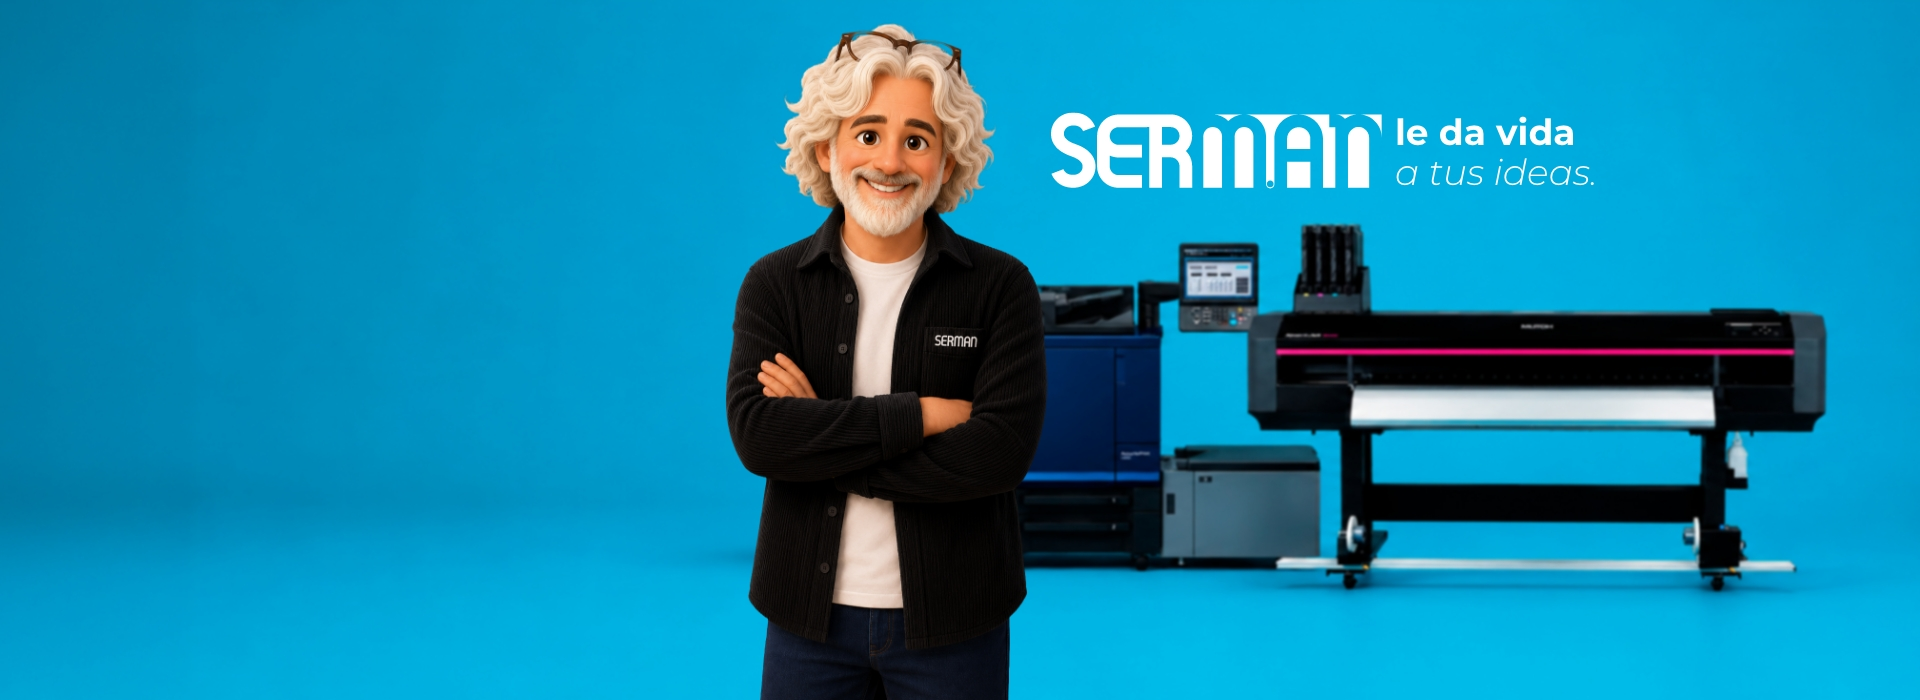
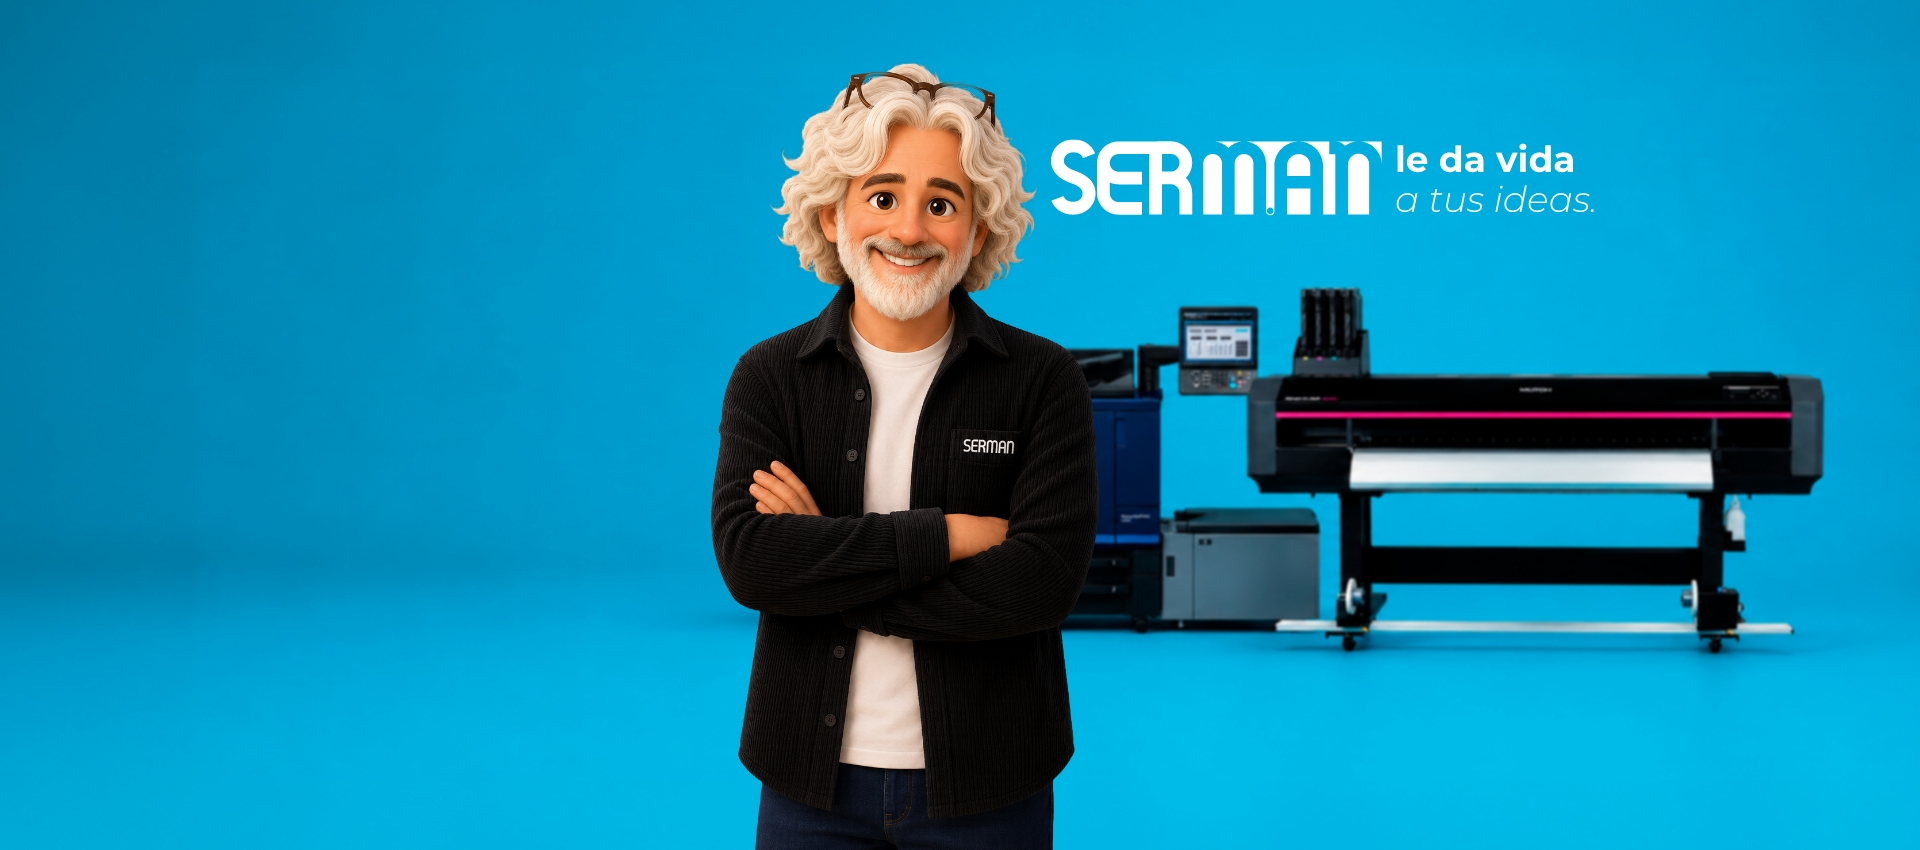
Ajusta hero completo y fade por scroll

Changed region(s): [[0.3438, 0.03, 0.9688, 1.0], [0.0, 0.72, 0.0625, 0.75]]

diff --git a/src/App.jsx b/src/App.jsx
@@ -1,4 +1,4 @@
-import { useState } from "react";
+import { useEffect, useRef, useState } from "react";
 
 import logoHeader from "./assets/logo-serman-1.svg";
 import logoFooter from "./assets/logo-serman-2.svg";
@@ -237,16 +237,16 @@ function QuoteForm() {
 function Hero() {
   return (
     <section className="relative overflow-hidden bg-[#03acd4]">
-      <picture className="absolute inset-0 block">
+      <picture className="block w-full">
         <source media="(max-width: 767px)" srcSet={heroMobile} />
         <img
           src={heroDesktop}
           alt="Serman le da vida a tus ideas"
-          className="h-full w-full object-cover object-center"
+          className="block h-auto w-full"
         />
       </picture>
 
-      <div className="relative mx-auto flex min-h-[528px] max-w-[1280px] items-end px-7 pb-8 pt-[132px] md:min-h-[374px] md:items-center md:px-8 md:py-8">
+      <div className="absolute inset-0 mx-auto flex max-w-[1280px] items-end px-7 pb-8 pt-[132px] md:items-center md:px-8 md:py-8">
         <div className="w-full max-w-[277px] md:max-w-[435px]">
           <QuoteForm />
         </div>
@@ -313,14 +313,41 @@ function WorksSection() {
 }
 
 function BenefitsSection() {
+  const sectionRef = useRef(null);
+  const [isVisible, setIsVisible] = useState(false);
+
+  useEffect(() => {
+    const section = sectionRef.current;
+
+    if (!section) return;
+
+    const observer = new IntersectionObserver(
+      ([entry]) => {
+        if (entry.isIntersecting) {
+          setIsVisible(true);
+          observer.unobserve(entry.target);
+        }
+      },
+      {
+        threshold: 0.25,
+      }
+    );
+
+    observer.observe(section);
+
+    return () => observer.disconnect();
+  }, []);
+
   return (
-    <section className="bg-white px-8 py-16 md:py-20">
+    <section ref={sectionRef} className="bg-white px-8 py-16 md:py-20">
       <div className="mx-auto grid max-w-[1130px] grid-cols-1 gap-x-12 gap-y-12 sm:grid-cols-2 lg:grid-cols-4">
         {beneficios.map((beneficio, index) => (
           <article
             key={beneficio.titleLines.join(" ")}
-            className="benefit-fade-item flex items-center gap-4"
-            style={{ animationDelay: `${index * 260}ms` }}
+            className={`benefit-fade-item flex items-center gap-4 ${
+              isVisible ? "is-visible" : ""
+            }`}
+            style={{ transitionDelay: `${index * 180}ms` }}
           >
             <div className="flex h-[92px] w-[92px] shrink-0 items-center justify-center">
               <img
@@ -403,21 +430,15 @@ function GlobalStyles() {
         animation: menu-carousel-background-right 26s linear infinite;
       }
 
-      @keyframes benefit-fade-in {
-        from {
-          opacity: 0;
-          transform: translateY(10px);
-        }
-
-        to {
-          opacity: 1;
-          transform: translateY(0);
-        }
-      }
-
       .benefit-fade-item {
         opacity: 0;
-        animation: benefit-fade-in 850ms ease forwards;
+        transform: translateY(12px);
+        transition: opacity 700ms ease, transform 700ms ease;
+      }
+
+      .benefit-fade-item.is-visible {
+        opacity: 1;
+        transform: translateY(0);
       }
 
       @media (max-width: 767px) {
@@ -429,14 +450,14 @@ function GlobalStyles() {
       }
 
       @media (prefers-reduced-motion: reduce) {
-        .menu-carousel-strip,
-        .benefit-fade-item {
+        .menu-carousel-strip {
           animation: none !important;
         }
 
         .benefit-fade-item {
           opacity: 1;
           transform: none;
+          transition: none;
         }
       }
     `}</style>
